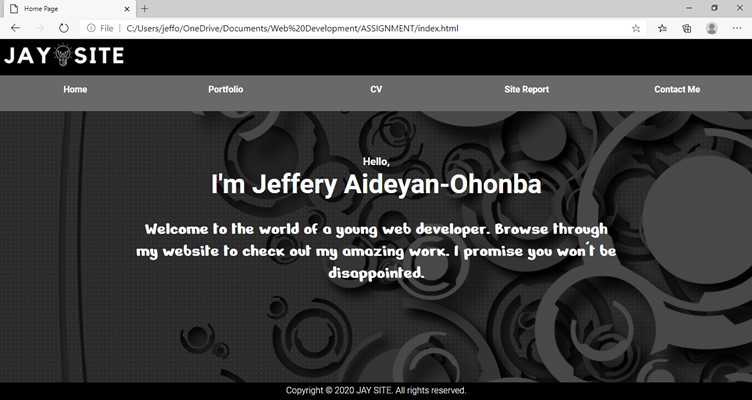
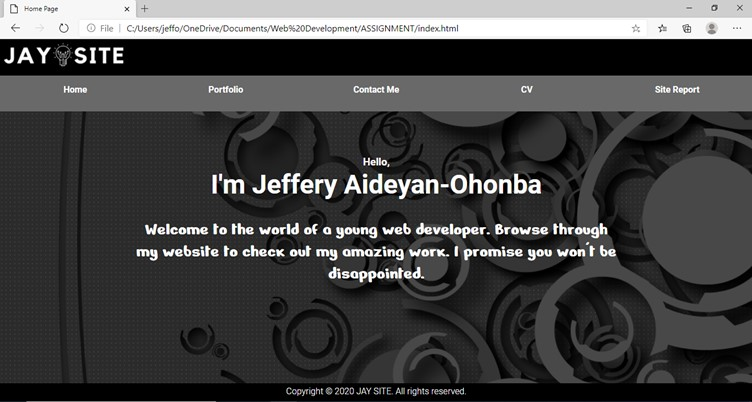
Re-ordered the navigation menu

diff --git a/sitereport.html b/sitereport.html
@@ -23,28 +23,28 @@
      </header>    
        
      <nav id="burger">
-         <a href="#close" class="close">X</a>
-         <ul>
-           <li class="home">
-             <a href="index.html">Home</a>
-           </li>
-           <li class="portfolio">
-             <a href="portfolio.html">Portfolio</a>
-           </li>
+      <a href="#close" class="close">X</a>
+      <ul>
+        <li class="home">
+          <a href="index.html">Home</a>
+        </li>
+        <li class="portfolio">
+          <a href="portfolio.html">Portfolio</a>
+        </li>
 
-           <li class="cv">
-             <a href="cv.html">CV</a>
-           </li>
+        <li class="contact">
+          <a href="contact.html">Contact Me</a>
+        </li>
 
-           <li class="sitereport">
-             <a href="sitereport.html">Site Report</a>
-           </li>
+        <li class="CV">
+          <a href="cv.html">CV</a>
+        </li>
 
-           <li class="contact">
-             <a href="contact.html">Contact Me</a>
-           </li>
-         </ul>
-     </nav>
+        <li class="sitereport">
+          <a href="sitereport.html">Site Report</a>
+        </li>
+      </ul>
+  </nav>
 
      <main>
        <div class="moduleexperience">
@@ -131,7 +131,7 @@
            <img src="srpmobilecss.jpg" alt="">
          </div>
        </div>
-       
+
        <div class="reference">
          <h1>Reference</h1>
          <h4>Font</h4>

diff --git a/contact.html b/contact.html
@@ -23,28 +23,28 @@
      </header>    
        
      <nav id="burger">
-         <a href="#close" class="close">X</a>
-         <ul>
-           <li class="home">
-             <a href="index.html">Home</a>
-           </li>
-           <li class="portfolio">
-             <a href="portfolio.html">Portfolio</a>
-           </li>
+      <a href="#close" class="close">X</a>
+      <ul>
+        <li class="home">
+          <a href="index.html">Home</a>
+        </li>
+        <li class="portfolio">
+          <a href="portfolio.html">Portfolio</a>
+        </li>
 
-           <li class="cv">
-             <a href="cv.html">CV</a>
-           </li>
+        <li class="contact">
+          <a href="contact.html">Contact Me</a>
+        </li>
 
-           <li class="sitereport">
-             <a href="sitereport.html">Site Report</a>
-           </li>
+        <li class="CV">
+          <a href="cv.html">CV</a>
+        </li>
 
-           <li class="contact">
-             <a href="contact.html">Contact Me</a>
-           </li>
-         </ul>
-     </nav>
+        <li class="sitereport">
+          <a href="sitereport.html">Site Report</a>
+        </li>
+      </ul>
+  </nav>
 
      <main class="contact-form-section">
 

diff --git a/cv.html b/cv.html
@@ -23,28 +23,28 @@
      </header>    
        
      <nav id="burger">
-         <a href="#close" class="close">X</a>
-         <ul>
-           <li class="home">
-             <a href="index.html">Home</a>
-           </li>
-           <li class="portfolio">
-             <a href="portfolio.html">Portfolio</a>
-           </li>
+      <a href="#close" class="close">X</a>
+      <ul>
+        <li class="home">
+          <a href="index.html">Home</a>
+        </li>
+        <li class="portfolio">
+          <a href="portfolio.html">Portfolio</a>
+        </li>
 
-           <li class="cv">
-             <a href="cv.html">CV</a>
-           </li>
+        <li class="contact">
+          <a href="contact.html">Contact Me</a>
+        </li>
 
-           <li class="sitereport">
-             <a href="sitereport.html">Site Report</a>
-           </li>
+        <li class="CV">
+          <a href="cv.html">CV</a>
+        </li>
 
-           <li class="contact">
-             <a href="contact.html">Contact Me</a>
-           </li>
-         </ul>
-     </nav>
+        <li class="sitereport">
+          <a href="sitereport.html">Site Report</a>
+        </li>
+      </ul>
+  </nav>
 
      <main>
        <div class="cvleft">

diff --git a/portfolio.html b/portfolio.html
@@ -23,28 +23,28 @@
      </header>    
        
      <nav id="burger">
-         <a href="#close" class="close">X</a>
-         <ul>
-           <li class="home">
-             <a href="index.html">Home</a>
-           </li>
-           <li class="portfolio">
-             <a href="portfolio.html">Portfolio</a>
-           </li>
+      <a href="#close" class="close">X</a>
+      <ul>
+        <li class="home">
+          <a href="index.html">Home</a>
+        </li>
+        <li class="portfolio">
+          <a href="portfolio.html">Portfolio</a>
+        </li>
 
-           <li class="cv">
-             <a href="cv.html">CV</a>
-           </li>
+        <li class="contact">
+          <a href="contact.html">Contact Me</a>
+        </li>
 
-           <li class="sitereport">
-             <a href="sitereport.html">Site Report</a>
-           </li>
+        <li class="CV">
+          <a href="cv.html">CV</a>
+        </li>
 
-           <li class="contact">
-             <a href="contact.html">Contact Me</a>
-           </li>
-         </ul>
-     </nav>
+        <li class="sitereport">
+          <a href="sitereport.html">Site Report</a>
+        </li>
+      </ul>
+  </nav>
 
      <main>
        <ul>

diff --git a/index.html b/index.html
@@ -32,16 +32,16 @@
              <a href="portfolio.html">Portfolio</a>
            </li>
 
-           <li class="cv">
+           <li class="contact">
+             <a href="contact.html">Contact Me</a>
+           </li>
+
+           <li class="CV">
              <a href="cv.html">CV</a>
            </li>
 
            <li class="sitereport">
              <a href="sitereport.html">Site Report</a>
-           </li>
-
-           <li class="contact">
-             <a href="contact.html">Contact Me</a>
            </li>
          </ul>
      </nav>
